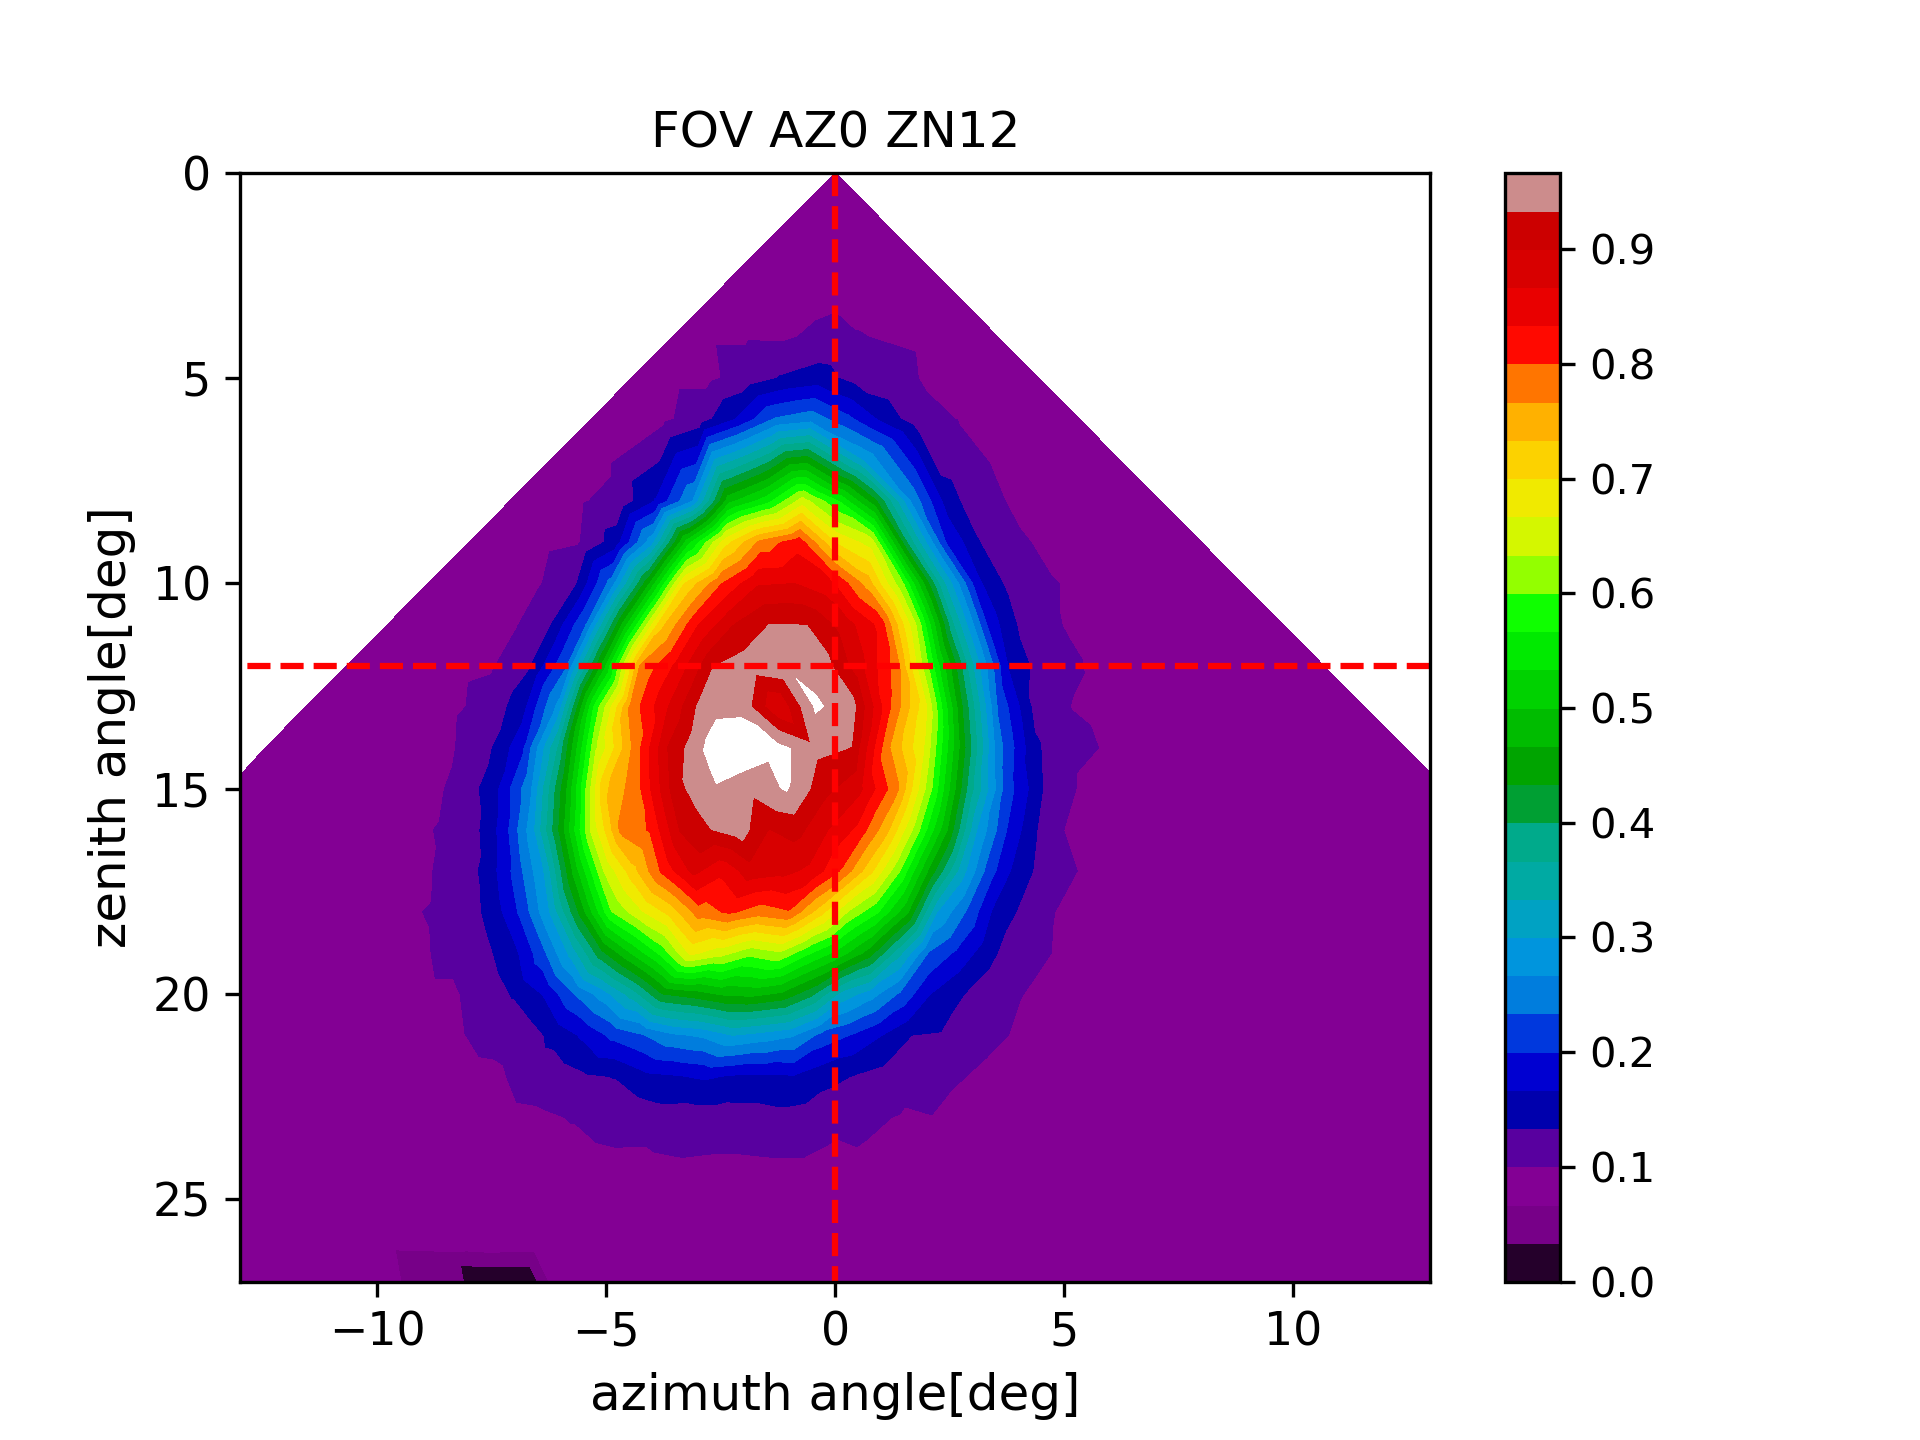
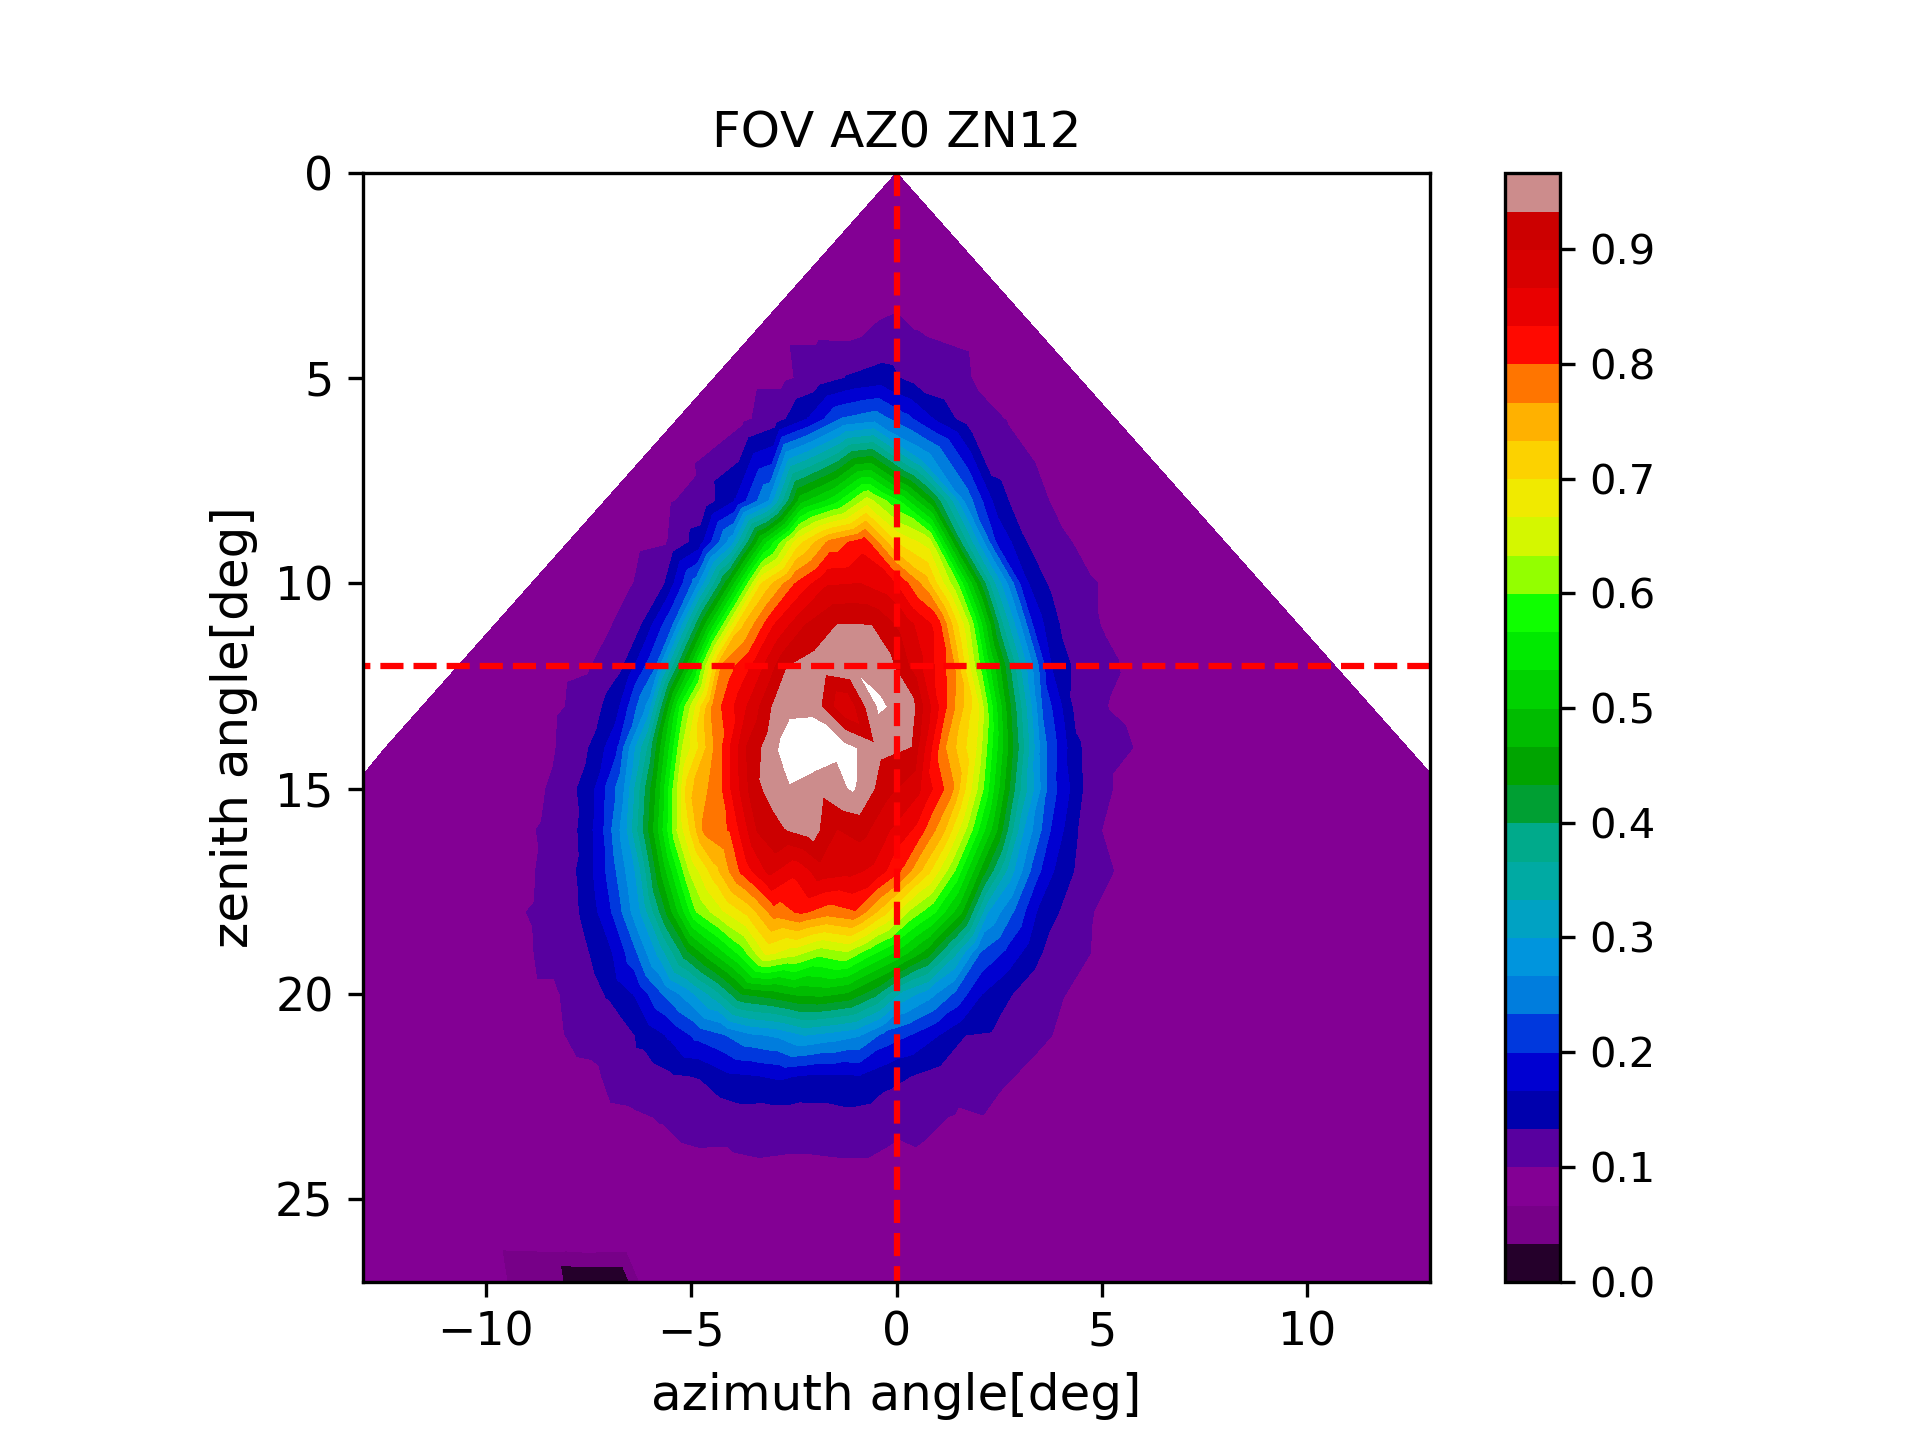
FOV plot function

diff --git a/functions/functions.py b/functions/functions.py
@@ -1,2 +1,61 @@
+import matplotlib.pyplot as plt
+import numpy as np
+
+
 def read_data():
-    """Import FOV data saved in npy files"""
+    """Import FOV data saved in npy files. data muss have the structure
+    [azimuth, zenith, radiance] """
+
+    data = np.load('data/data.npy')
+    return data
+
+
+def plot_fov(data, config, add_points=False):
+    """Plot the FOV measured in a contour plot """
+
+    delta = config['delta']
+    name = 'corrected_FOV'
+
+    radianc = data[2][config['channel'], config['wavelength'], :]
+    radiance = radianc / radianc.max()
+    zen = data[1]
+    azim = data[0]
+
+    # parameter of plot
+    zeni_fib = 12 # zen_fib
+    azim_fib = 0 # azim_fib - 180
+
+    ylim_min = 0 # zeni_fib - delta
+    ylim_max = zeni_fib + delta
+
+    # plot
+    cmap = 'nipy_spectral'
+    levels = np.arange(0, radiance.max(), 1/30)
+
+    #fig, ax = plt.subplots(subplot_kw=dict(projection='polar'))
+
+    plt.tricontourf(azim, zen, radiance, cmap=cmap, levels=levels)
+    plt.ylim(ylim_min, ylim_max)
+    plt.title('FOV AZ{} ZN{}'.format(azim_fib, zeni_fib))
+    plt.xlabel('azimuth angle[deg]', fontsize=12)
+    plt.ylabel('zenith angle[deg]', fontsize=12)
+    plt.gca().invert_yaxis() #invert y axis
+
+    # plot center of fiber
+    plt.plot([-delta + azim_fib, delta - 1 + azim_fib], [zeni_fib, zeni_fib], '--r')
+    plt.plot([azim_fib, azim_fib], [ylim_min, ylim_max], '--r')
+
+    plt.axis(ratio=1)
+    plt.xticks(size=11)
+    plt.yticks(size=11)
+    plt.axes().set_aspect('equal')
+    plt.axis([-13, 13, ylim_max, ylim_min])
+    plt.colorbar()
+
+    if add_points == True:
+        # add measurement points
+        plt.scatter(azim, zen, cmap=cmap, s=0.4, c='w')
+
+    plt.savefig('results/{}.png'.format(name), dpi=300)
+    plt.show()
+    plt.close()
